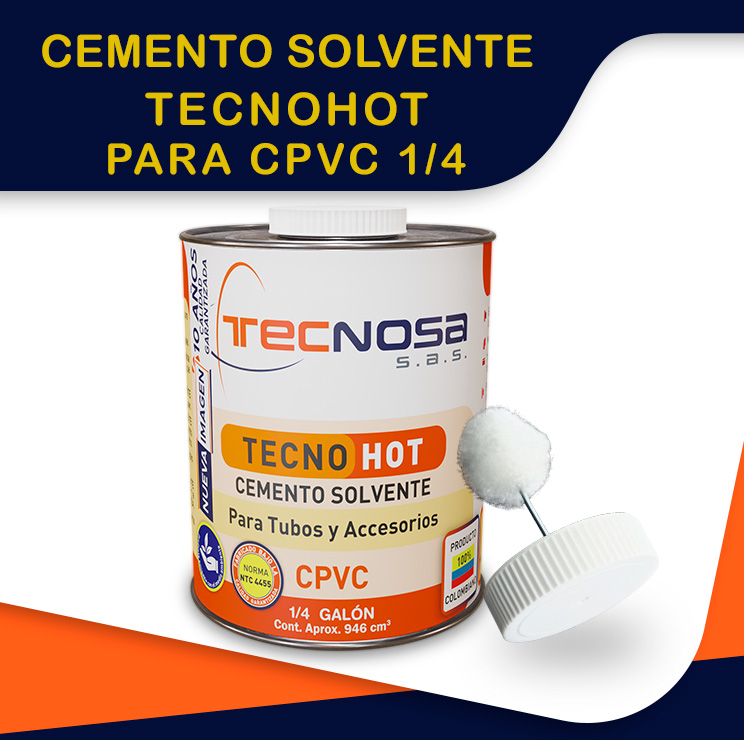
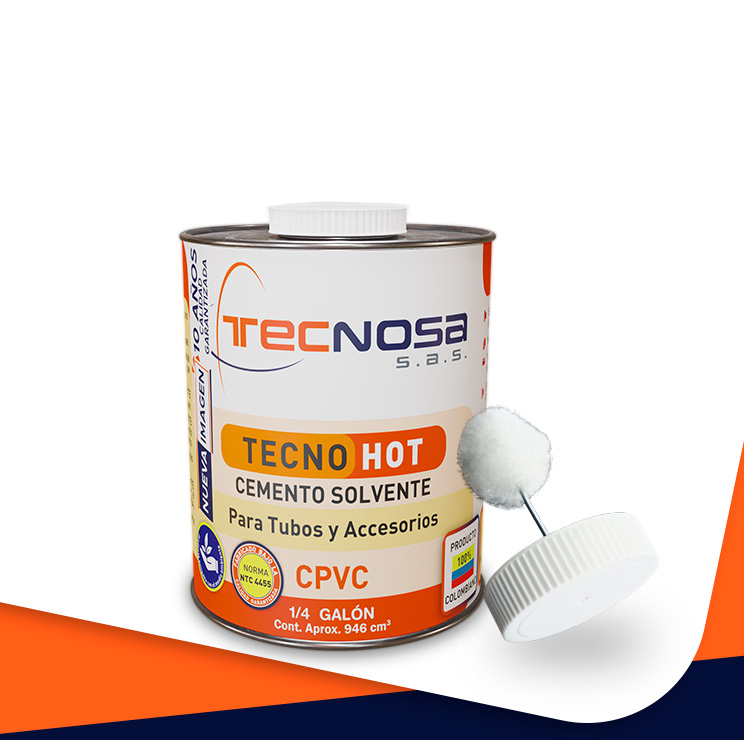
collage inicio y soldadura separados, formato img

Changed region(s): [[0.0, 0.0, 1.0, 0.2797]]

diff --git a/css/style.css b/css/style.css
@@ -308,17 +308,13 @@ h6 {
 }
 
 
-/* navbar2*/
-
-
-/* navbar2*/
 /*--------------------------------------------------------------
-  # Hero Section
+  # inicio
   --------------------------------------------------------------*/
 #inicio {
     width: 100%;
     height: 80vh;
-    background: url("../img/inicio-bg.jpg") top center;
+    background: url("/img/collageinicio.jpg") top center;
     background-size: cover;
     position: relative;
 }
@@ -398,6 +394,97 @@ h6 {
         line-height: 20px;
     }
 }
+
+
+
+/*iniciosoldadura*/
+
+
+  #iniciosoldadura {
+    width: 100%;
+    height: 80vh;
+    background: url("/img/iniciosoldadura.jpg") top center;
+    background-size: cover;
+    position: relative;
+}
+
+#iniciosoldadura:before {
+    content: "";
+    background: rgba(45, 53, 69, 0.7);
+    position: absolute;
+    bottom: 0;
+    top: 0;
+    left: 0;
+    right: 0;
+}
+
+#iniciosoldadura .container {
+    text-align: center;
+    padding-top: 50px;
+}
+/*@media (max-width: 992px)*/
+@media (max-width: 892px) {
+    #iniciosoldadura .container {
+        padding-top: 100px;
+        padding-bottom: 100px;
+           }
+}
+
+#iniciosoldadura h1 {
+    margin: 0;
+    font-size: 48px;
+    font-weight: 700;
+    line-height: 56px;
+    color: #fff;
+}
+
+#iniciosoldadura h2 {
+    color: #eee;
+    margin: 15px 0 0 0;
+    font-size: 22px;
+}
+
+#iniciosoldadura .btn-get-started {
+    font-family: "Raleway", sans-serif;
+    font-weight: 500;
+    font-size: 15px;
+    letter-spacing: 1px;
+    display: inline-block;
+    padding: 9px 35px;
+    border-radius: 50px;
+    transition: 0.5s;
+    margin-top: 40px;
+    border: 2px solid #f16024;
+    color: #fff;
+}
+
+#iniciosoldadura .btn-get-started:hover {
+    background: #f16024;
+}
+/*@media (min-width: 1024px)*/
+@media (min-width: 980px) {
+    #iniciosoldadura {
+        background-attachment: fixed;
+    }
+}
+/*@media (max-width: 768px)*/
+@media (max-width: 960px) {
+    #iniciosoldadura {
+        height: 100vh;
+    }
+
+    #iniciosoldadura h1 {
+        font-size: 24px;
+        line-height: 32px;
+    }
+
+    #iniciosoldadura h2 {
+        font-size: 20px;
+        line-height: 20px;
+    }
+}
+
+
 /*cuadrossanitaria*/
 
 .cuadrossanitaria {
@@ -834,7 +921,7 @@ section {
     border-radius: 5px;
     background: #fff;
     border-radius: 15px;
-    background: #0f173a;
+    background: #F16024;
     box-shadow: 0px 2px 15px rgba(65, 76, 100, 0.06);
 }
 
@@ -852,7 +939,7 @@ section {
     opacity: 0;
     transition: ease-in-out 0.3s;
     text-align: center;
-    background: #f26225;
+    background: #0F163A;
     display: flex;
     align-items: center;
     justify-content: center;
@@ -881,12 +968,12 @@ section {
 }
 
 .nuestrasoldadura .member .social a:hover {
-    color: #0F163A;
+    color: #00BB2D;
 }
 
 
 .nuestrasoldadura .member .social p:hover {
-    color: #0F163A;
+    color: #F16024;
 }
 .nuestrasoldadura .member .social i {
     font-size: 18px;
@@ -906,12 +993,12 @@ section {
 }
 
 .nuestrasoldadura .member .member-info a {
-    color: #fff;
+    color: #0F163A;
     text-decoration: none;
 }
 
 .nuestrasoldadura .member .member-info a:hover {
-    color: #F16024;
+    color: #ffffff;
     text-decoration: none;
 }
 
@@ -919,7 +1006,7 @@ section {
     display: block;
     font-size: 13px;
     font-weight: 400;
-    color: #aaaaaa;
+    color: #ffffff;
 }
 
 .nuestrasoldadura .member .member-info p {

diff --git a/soldadura.html b/soldadura.html
@@ -111,7 +111,7 @@
     </header>
     <!-- End Header -->
     <!-- ======= inicio Hero Section ======= -->
-    <section id="inicio" class="d-flex align-items-center justify-content-center">
+    <section id="iniciosoldadura" class="d-flex align-items-center justify-content-center">
         <div class="container position-relative">
             <h1>Soluciones de calidad para proyectos de construcción</h1>
             <h2>En Tecnosa te ofrecemos tubería, accesorios y soldaduras de PVC fabricados con la última tecnología para
@@ -168,7 +168,7 @@
                     <div class="col-lg-4 col-md-6 d-flex align-items-stretch" data-aos="fade-up">
                         <div class="member">
                             <div class="member-img">
-                                <a href="https://es-la.facebook.com"> <img src="img/nuestrasoldadura/ultrasold.jpg"
+                                <a href="https://es-la.facebook.com"> <img src="img/nuestrasoldadura/ultrasold.png"
                                         class="img-fluid" alt="tuberia"></a>
                                 <div class="social">
                                     <a href="https://api.whatsapp.com/send?phone=+57 323 2303703&text=Hola estoy interesad@ en la Tubería que fabrica Tecnosa.">
@@ -186,7 +186,7 @@
                     <div class="col-lg-4 col-md-6 d-flex align-items-stretch"  data-aos="fade-up">
                         <div class="member">
                             <div class="member-img">
-                                <a href="https://www.google.com/"> <img src="img/nuestrasoldadura/wetbonding.jpg"
+                                <a href="https://www.google.com/"> <img src="img/nuestrasoldadura/wetbonding.png"
                                         class="img-fluid" alt="cemento solvente"></a>
                                 <div class="social">
                                     <a href="https://api.whatsapp.com/send?phone=+57 323 2303703&text=Hola estoy interesad@ en la Soldadura que fabrica Tecnosa."><p>Cotiza Aquí</p>
